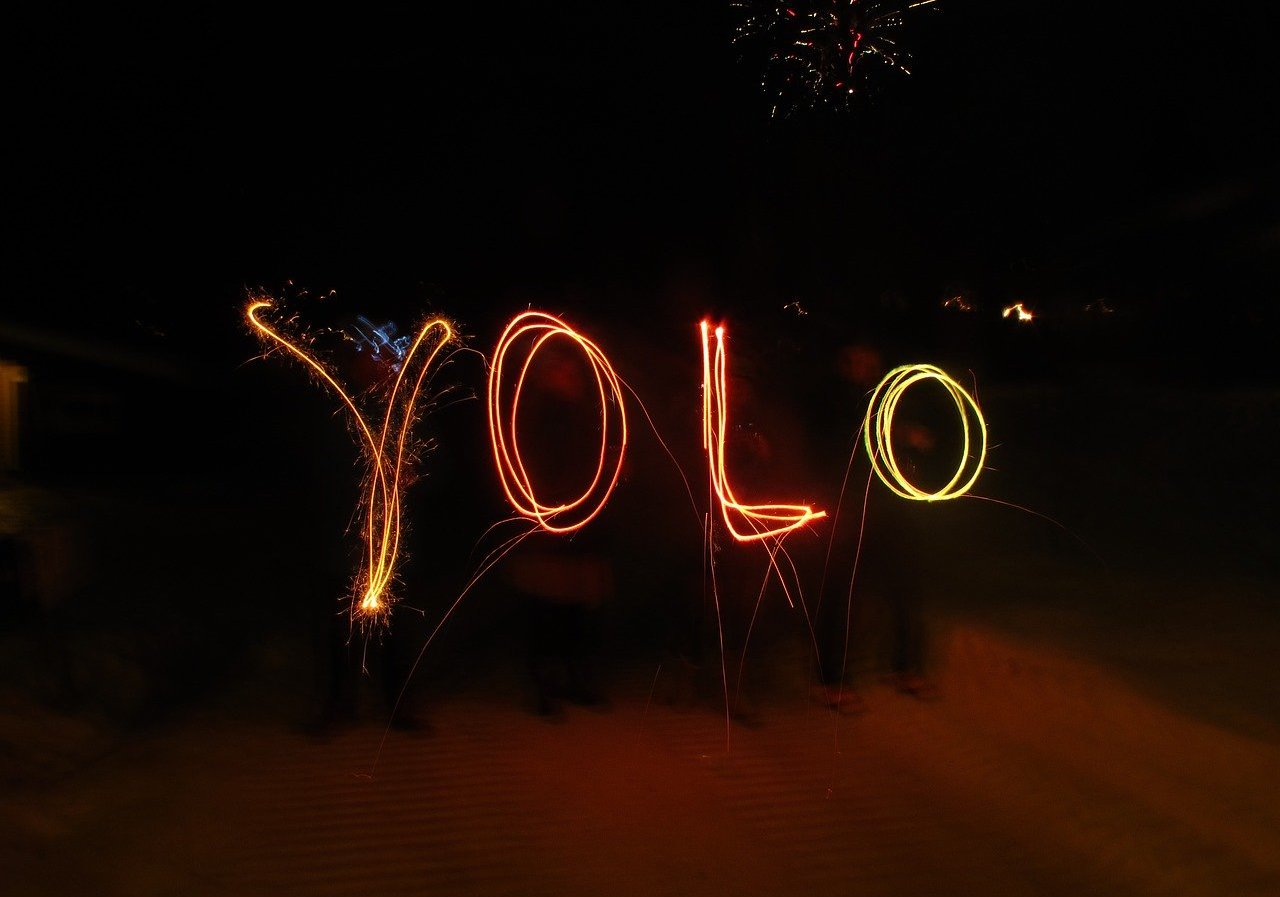
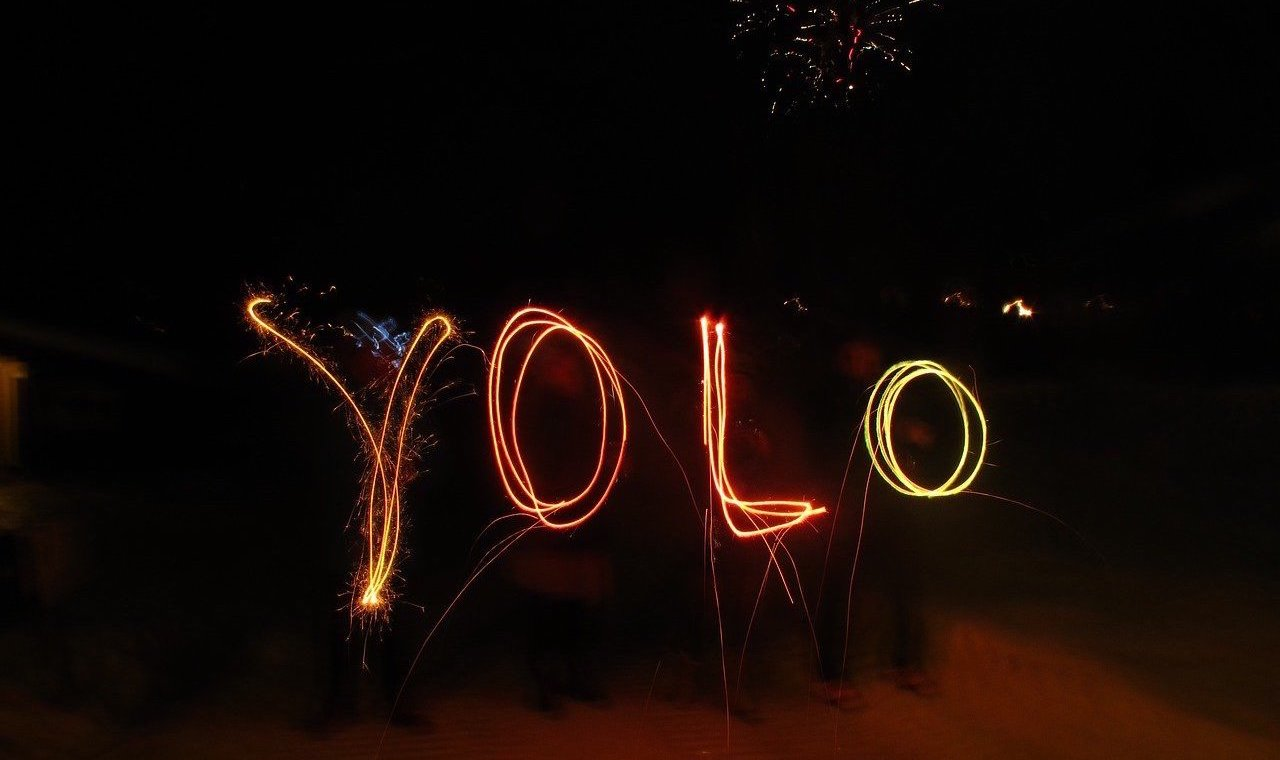
CLN/ENH: optimize images, remove heroku files

diff --git a/styles/home.css b/styles/home.css
@@ -24,7 +24,7 @@ hr {
     width: 25%;
     margin: auto;
     border: 2px solid #2E2EFE;
-    margin-top: 10px;
+    margin-top: 20px;
     border-radius: 8px;
     color: white;
 }
@@ -45,7 +45,11 @@ button {
 }
 
 select {
-    margin: 20px
+    margin-bottom: 10px
+}
+
+#unpredicted {
+    margin-bottom: 20px;
 }
 
 .disabled {

diff --git a/app.py b/app.py
@@ -2,10 +2,13 @@ import os
 
 import numpy as np
 
+from PIL import Image
+
 from bottle import (
     default_app,
     error,
     get,
+    HTTPResponse,
     post,
     request,
     run,
@@ -22,6 +25,7 @@ from yolo.cvdetect.yolo import (
 
 PATH = os.path.abspath(__file__)
 ROOT = os.path.dirname(PATH)
+IM_OUT = os.path.sep.join([ROOT, 'yolo', 'cvdetect', 'output'])
 NET = initialize_net()
 
 application = default_app()
@@ -35,6 +39,11 @@ def error_handler_404(error):
 @error(500)
 def error_handler_500(error):
     return template('error', error='500')
+
+
+@error(418)
+def error_handler_418(error):
+    return template('error', error='418')
 
 
 @get('/')
@@ -54,7 +63,7 @@ def send_image(filename):
 
 @get('/predictions/<filename:re:.*\.jpg>')
 def send_result(filename):
-    return static_file(filename, root=os.path.sep.join([ROOT, 'yolo', 'cvdetect', 'output']), mimetype='image/jpg')
+    return static_file(filename, root=IM_OUT, mimetype='image/jpg')
 
 
 @post('/analyze')
@@ -66,7 +75,7 @@ def localize_classify():
     image = request.files.get('unpredicted')
     name, ext = os.path.splitext(image.filename)
     if ext.lower() not in ('.png', '.jpg', '.jpeg'):
-        return 'File extension not allowed.'
+        return HTTPResponse(status=418, body=theBody)
     image = np.asarray(bytearray(image.file.read()), dtype="uint8")
     layers = process_image(image, NET)
 
@@ -74,6 +83,9 @@ def localize_classify():
     if len(idxs) == 0:
         error = True
     annotate_image(image, idxs, name)
+    optimize = Image.open(os.path.sep.join([IM_OUT, f"{name}_predicted.jpg"]))
+    optimize.save(os.path.sep.join(
+        [IM_OUT, f"{name}_predicted.jpg"]), optimize=True, quality=50)
 
     return template('result', error=error, file=f"/predictions/{name}_predicted.jpg")
 
@@ -84,4 +96,4 @@ if __name__ == '__main__':
         port = int(os.environ.get("PORT"))
     else:
         port = '8080'
-    run(host='0.0.0.0', port=port)  # , server='tornado')
+    run(host='0.0.0.0', port=port, server='tornado')
